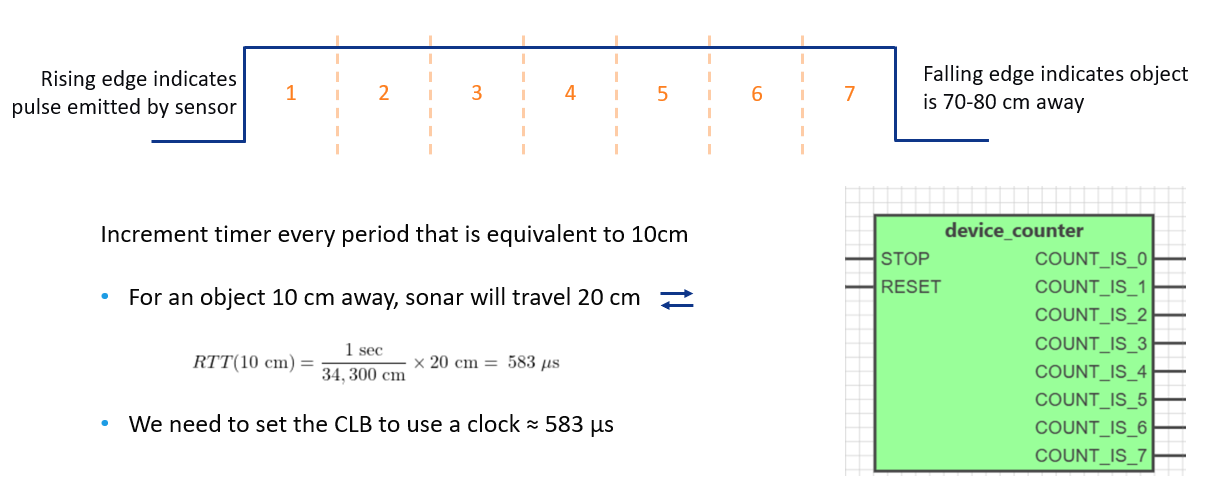
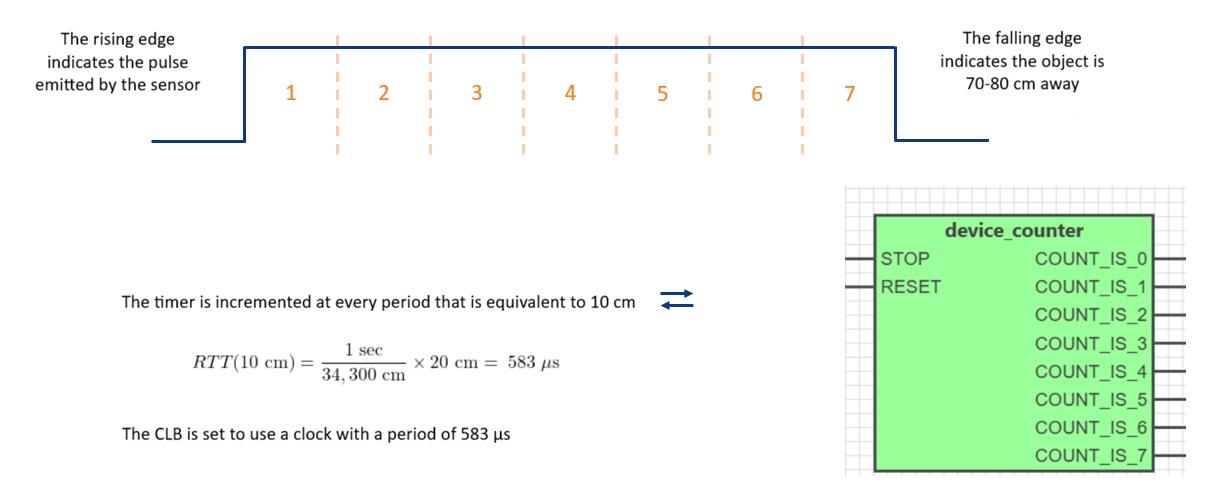
MPAE-20972 Implemented TW review comments

diff --git a/README.md b/README.md
@@ -8,13 +8,13 @@
    </picture>
 </a>
 
-# Zero-Software Ultrasonic Distance Sensing — Use Case for Configurable Logic Block (CLB) Using the PIC16F13145 Microcontroller with MCC Melody
+# Zero-Software Ultrasonic Distance Sensing — Use Case for Configurable Logic Block (CLB) Using the PIC16F13145 Microcontroller With MCC Melody
 
-This repository creates a rangefinder using the HC-SR04+ ultrasonic sensor and displays the results on the eight LEDs bar-graph featured on the Curiosity Nano Explorer Board.
+This repository creates a rangefinder using the HC-SR04+ ultrasonic sensor and displays the results on the eight LEDs bar-graph featured on the Curiosity Nano Explorer board.
 
 The CLB peripheral is a collection of logic elements that can be configured to implement discrete logic function(s). The logic function may be completely combinatorial, sequential or a combination of the two, enabling users to incorporate hardware-based custom logic into their applications. 
 
-The HC-SR04+ is a standard ultrasonic sensor that can be used for object detection and distance sensing. This is accomplished by the transmitter sending a signal, and then calculating distance based on the time it took the signal to get back to the receiver. The HC-SR04+, unlike the older version, is compatible with both 5V and 3.3V devices.
+The HC-SR04+ is a standard ultrasonic sensor that can be used for object detection and distance sensing. When the transmitter sends a signal, the distance is calculated based on the time it took the signal to get back to the receiver. Unlike the older version, the HC-SR04+ is compatible with both 5V and 3.3V devices.
 
 In this example, the CLB interprets the HC-SR04+ sensor data and displays it on eight LEDs. This removes the need for the user to write any executable code.
 
@@ -36,10 +36,10 @@ More details and code examples on the PIC16F13145 can be found at the following 
 
 ## Hardware Used
 
-- [PIC16F13145 Curiosity Nano Development Board](https://www.microchip.com/en-us/development-tool/EV06M52A?utm_source=GitHub&utm_medium=TextLink&utm_campaign=MCU8_Apps_PIC16F13145&utm_content=pic16f13145-cnano-ultrasonic-distance-sensor-mplab-mcc&utm_bu=MCU08)
+- [PIC16F13145 Curiosity Nano Development Board (EV06M52A)](https://www.microchip.com/en-us/development-tool/EV06M52A?utm_source=GitHub&utm_medium=TextLink&utm_campaign=MCU8_Apps_PIC16F13145&utm_content=pic16f13145-cnano-ultrasonic-distance-sensor-mplab-mcc&utm_bu=MCU08)
   <br><img src="images/pic16f13145-cnano.png" width="400">
 
-- [Curiosity Nano Explorer Board](https://www.microchip.com/en-us/development-tool/ev58g97a?utm_source=GitHub&utm_medium=TextLink&utm_campaign=MCU8_Apps_PIC16F13145&utm_content=pic16f13145-cnano-ultrasonic-distance-sensor-mplab-mcc&utm_bu=MCU08)
+- [Curiosity Nano Explorer Board (EV58G97A)](https://www.microchip.com/en-us/development-tool/ev58g97a?utm_source=GitHub&utm_medium=TextLink&utm_campaign=MCU8_Apps_PIC16F13145&utm_content=pic16f13145-cnano-ultrasonic-distance-sensor-mplab-mcc&utm_bu=MCU08)
   <br><img src="images/curiosity-nano-explorer.png" width="600">
 
 - HC-SR04+ Ultrasonic Distance Sensor
@@ -51,26 +51,26 @@ To program the Curiosity Nano board with this MPLAB® X project, follow the step
 
 ## Concept
 
-The HC-SR04+ sensor works by sending a series of pulses after the trigger pin has been toggled. These pulses travel until they reach an object, are reflected back to the source. If the object is too far away, the sensor will not properly receive the pulse. The distance traveled is based on the length of time the Echo pin is kept high. By measuring the pulse width of the Echo pin, the CLB can determine the distance to the object.
+The HC-SR04+ sensor works by sending a series of pulses after the trigger pin has been toggled. These pulses travel until they reach an object, then they are reflected back to the source. If the object is too far away, the sensor will not receive the pulse properly. The distance traveled is based on the length of time the Echo pin is kept in a High state. By measuring the pulse width of the Echo pin, the CLB can determine the distance to the object.
 
 <br><img src="images/HC-SR04.png" width="800">
 
-To measure the pulse width, the Timer0 overflow and the internal CLB counter determine which bin the distance falls into.
+To measure the pulse width, the Timer0 (TMR0) overflow and the internal CLB counter determine which bin the distance falls into.
 
 <br><img src="images/CLB_LOGIC.png" width="800">
 
 In the PIC16F13145 family of microcontrollers (MCUs), the CLB consists of a series of 32 Look-up Tables (LUTs), similiar to an FPGA. To configure the logic, use the CLB Synthesizer tool inside the MPLAB Code Configurator (MCC).
 
-This project provides two configurations of the CLB: single or all LEDs drive based on the detected object's distance. To program the Curiosity Nano Board with one design or the other, use the Load Design option from the CLB Synthesizer Library and choose between `ultrasonic_led_select.clb` or `ultrasonic_led_all_counts.clb` files. Alternatively, the designs can be drawn from scratch following the images and instructions below.
+This project provides two configurations of the CLB: single or all LEDs drive based on the detected distance of the object. To program the Curiosity Nano board with one design or the other, use the Load Design option from the CLB Synthesizer Library and choose between the `ultrasonic_led_select.clb` or `ultrasonic_led_all_counts.clb` files. Alternatively, the designs can be drawn from scratch following the images and instructions below.
 
 1. Single LED drive configuration:
-   - Add the following submodule named `led_select` within a `New Schematic` by clicking on the Documents menu button in the CLB Synthesizer Library user interface.
+   - Add the following submodule named `led_select` within a `New Schematic` by clicking the **Documents** menu button in the CLB Synthesizer Library user interface.
       <br><br><img src="images/mcc_clb_synthesizer3.png" width="800"><br><br>
    - In the `main` module, add the previously created submodule and a `device_counter` from the Modules section. The final design needs to look as below:
       <br><br><img src="images/mcc_clb_synthesizer1_v2.png" width="800"><br><br>
 
 2. All LEDs drive configuration:
-   - Add the following submodule named `led_all_counts` within a `New Verilog` by clicking on the Documents menu button in the CLB Synthesizer Library user interface.
+   - Add the following submodule named `led_all_counts` within a `New Verilog` by clicking the **Documents** menu button in the CLB Synthesizer Library user interface.
         ```
         module led_all_counts(in1, in2, in3, in4, in5, in6, in7, in8, led10cm, led20cm, led30cm, led40cm, led50cm, led60cm, led70cm, led80cm);
         input in1, in2, in3, in4, in5, in6, in7, in8;
@@ -175,7 +175,7 @@ This demonstration shows the PIC16F13145 with a CLB configuration using logic ga
 
 ## Summary
 
-The CLB significantly reduces the software overhead associated with implementing this example. Usually, it is up to the software to handle a timer, counter, as well as the I/Os. These tasks involve managing pin placement (in some cases making sure there is an open row), checking the counter and/or timer is reloaded, or bit-masking. With the CLB, all functions associated with this example are handled by the hardware, which leaves the CPU free to do other tasks without interruption. 
+The CLB significantly reduces the software overhead associated with implementing this example. Usually, it is up to the software to handle a timer, counter, as well as the inputs and outputs. These tasks involve managing the pin placement (in some cases making sure there is an open row), checking if the counter and/or timer is reloaded, or bit-masking. With the CLB, all functions associated with this example are handled by the hardware, which leaves the CPU free to do other tasks without interruption.
 
 The examples featured above showcase that the CLB is a highly configurable and open-ended tool.
 
